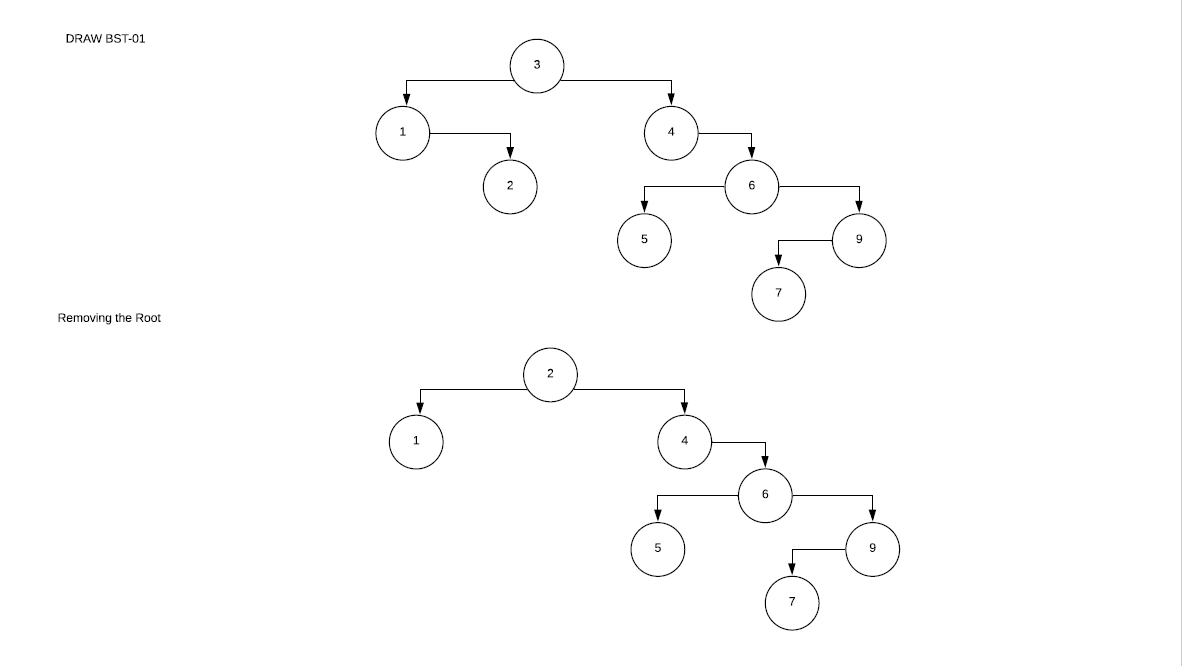
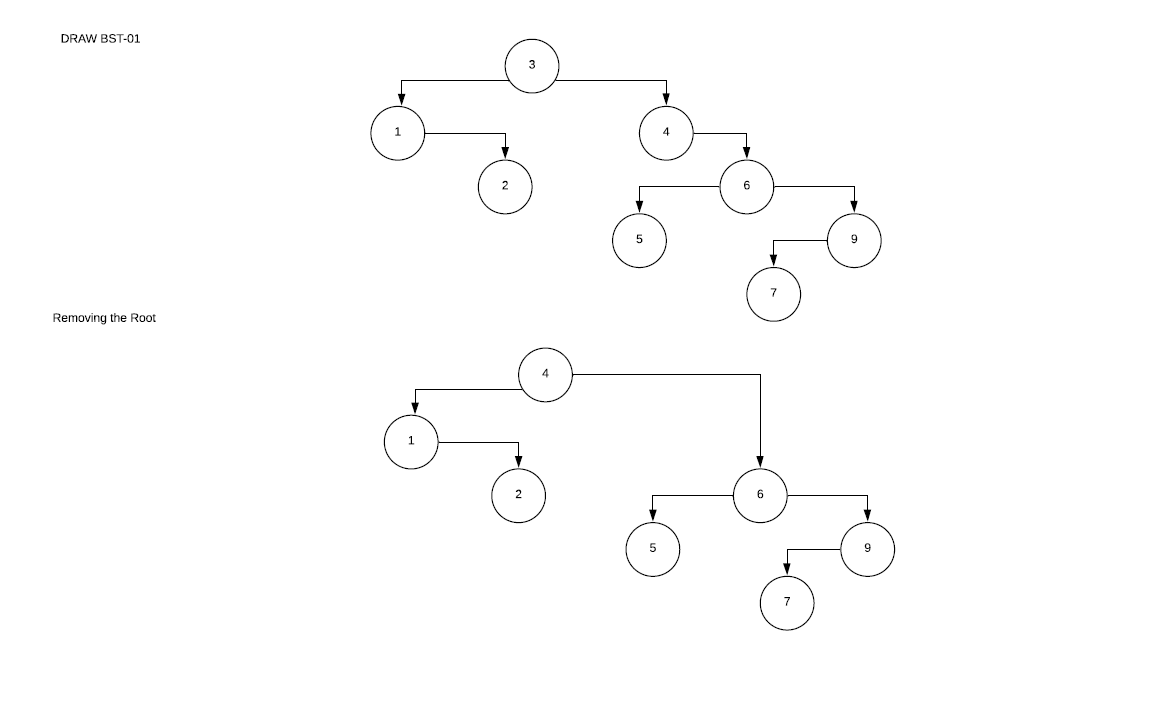
removing root

diff --git a/BST-Drills.js b/BST-Drills.js
@@ -8,7 +8,14 @@ function main() {
         BST.insert(n);
     })
     
-    //console.log(BST)
+    
+    
+    console.log(BST)
+    
+    BST.remove(3);
+    console.log(BST)
+    
+    
     const BST2 = new BinarySearchTree;
     const word =['E', 'A', 'S', 'Y', 'Q', 'U', 'E', 'S', 'T', 'I', 'O','N']
     
@@ -16,7 +23,13 @@ function main() {
        BST2.insert(letter)
    })
     
-    console.log(BST2)
+   // console.log(BST2)
+    
+}
+
+function heighOfTree(tree) {
+    
+    
 }
 
 main();

diff --git a/README.md b/README.md
@@ -35,6 +35,9 @@ function tree(t){
     return tree(t.left) + t.value + tree(t.right)
 }
 ```
+
+- Answer: it adds the values of the left and right tree
+
 5. Height of a BST
 Write an algorithm to find the height of a binary search tree. What is the time complexity of your algorithm?
 
